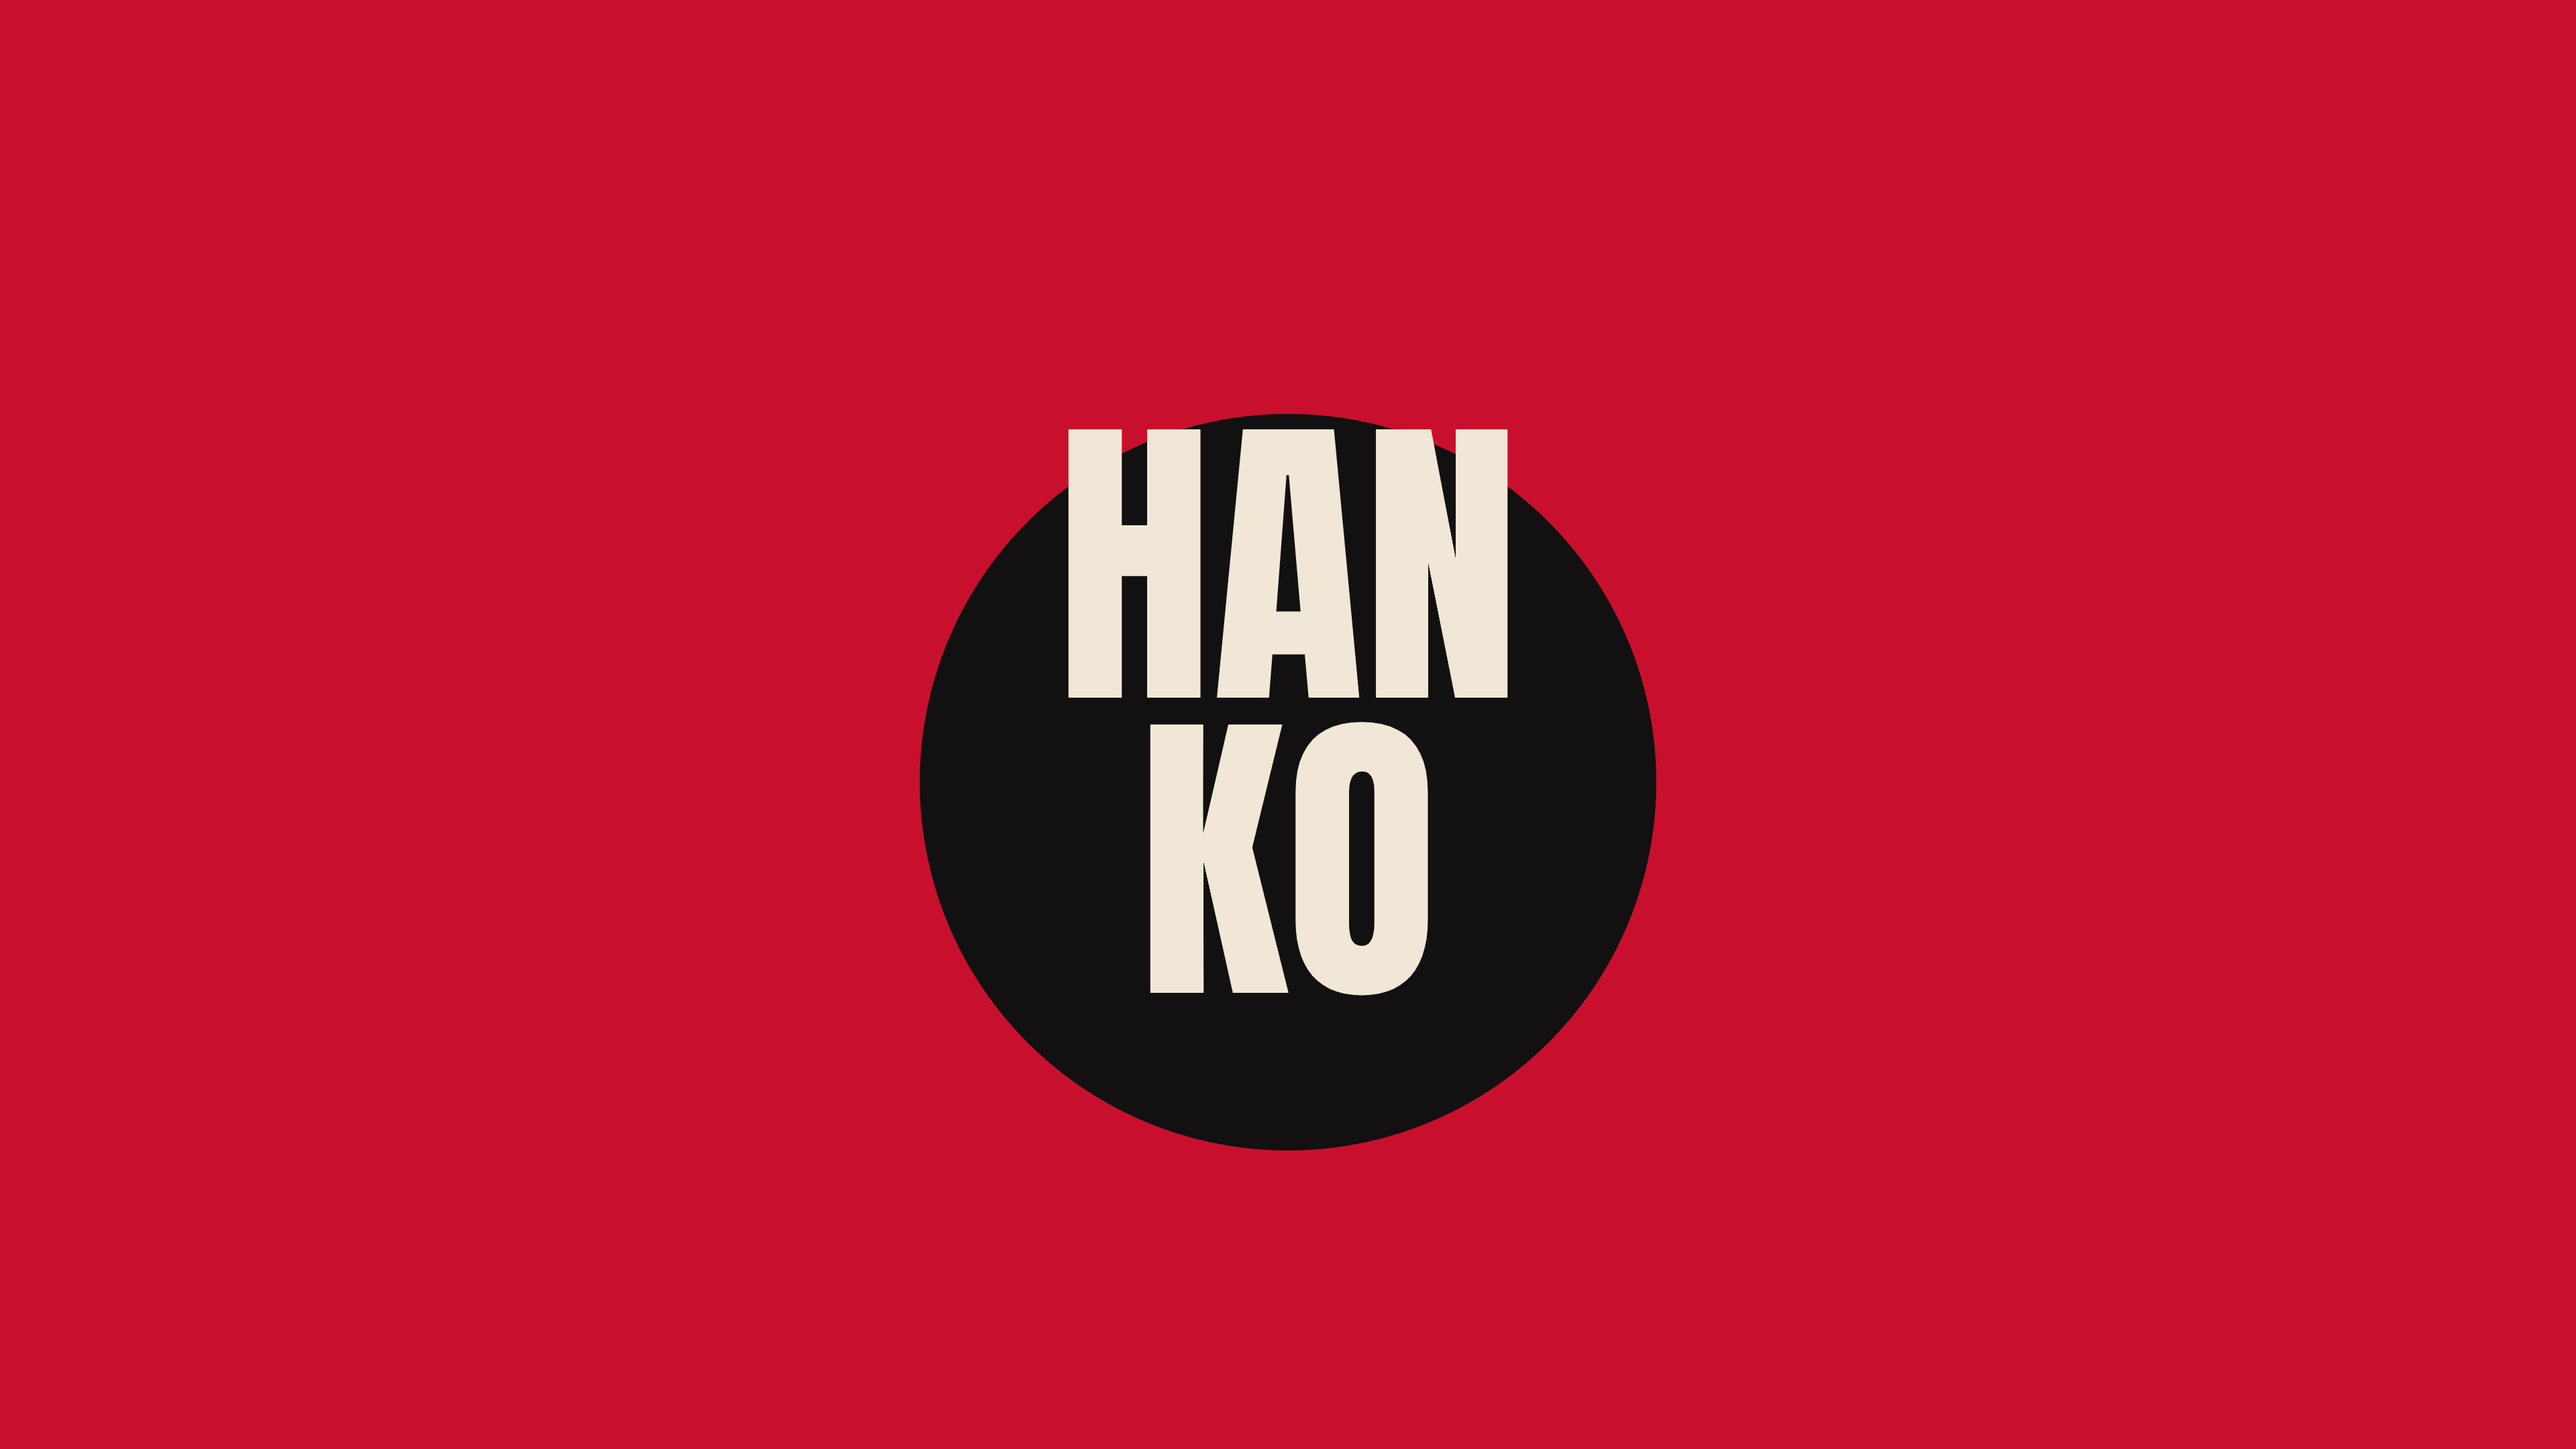
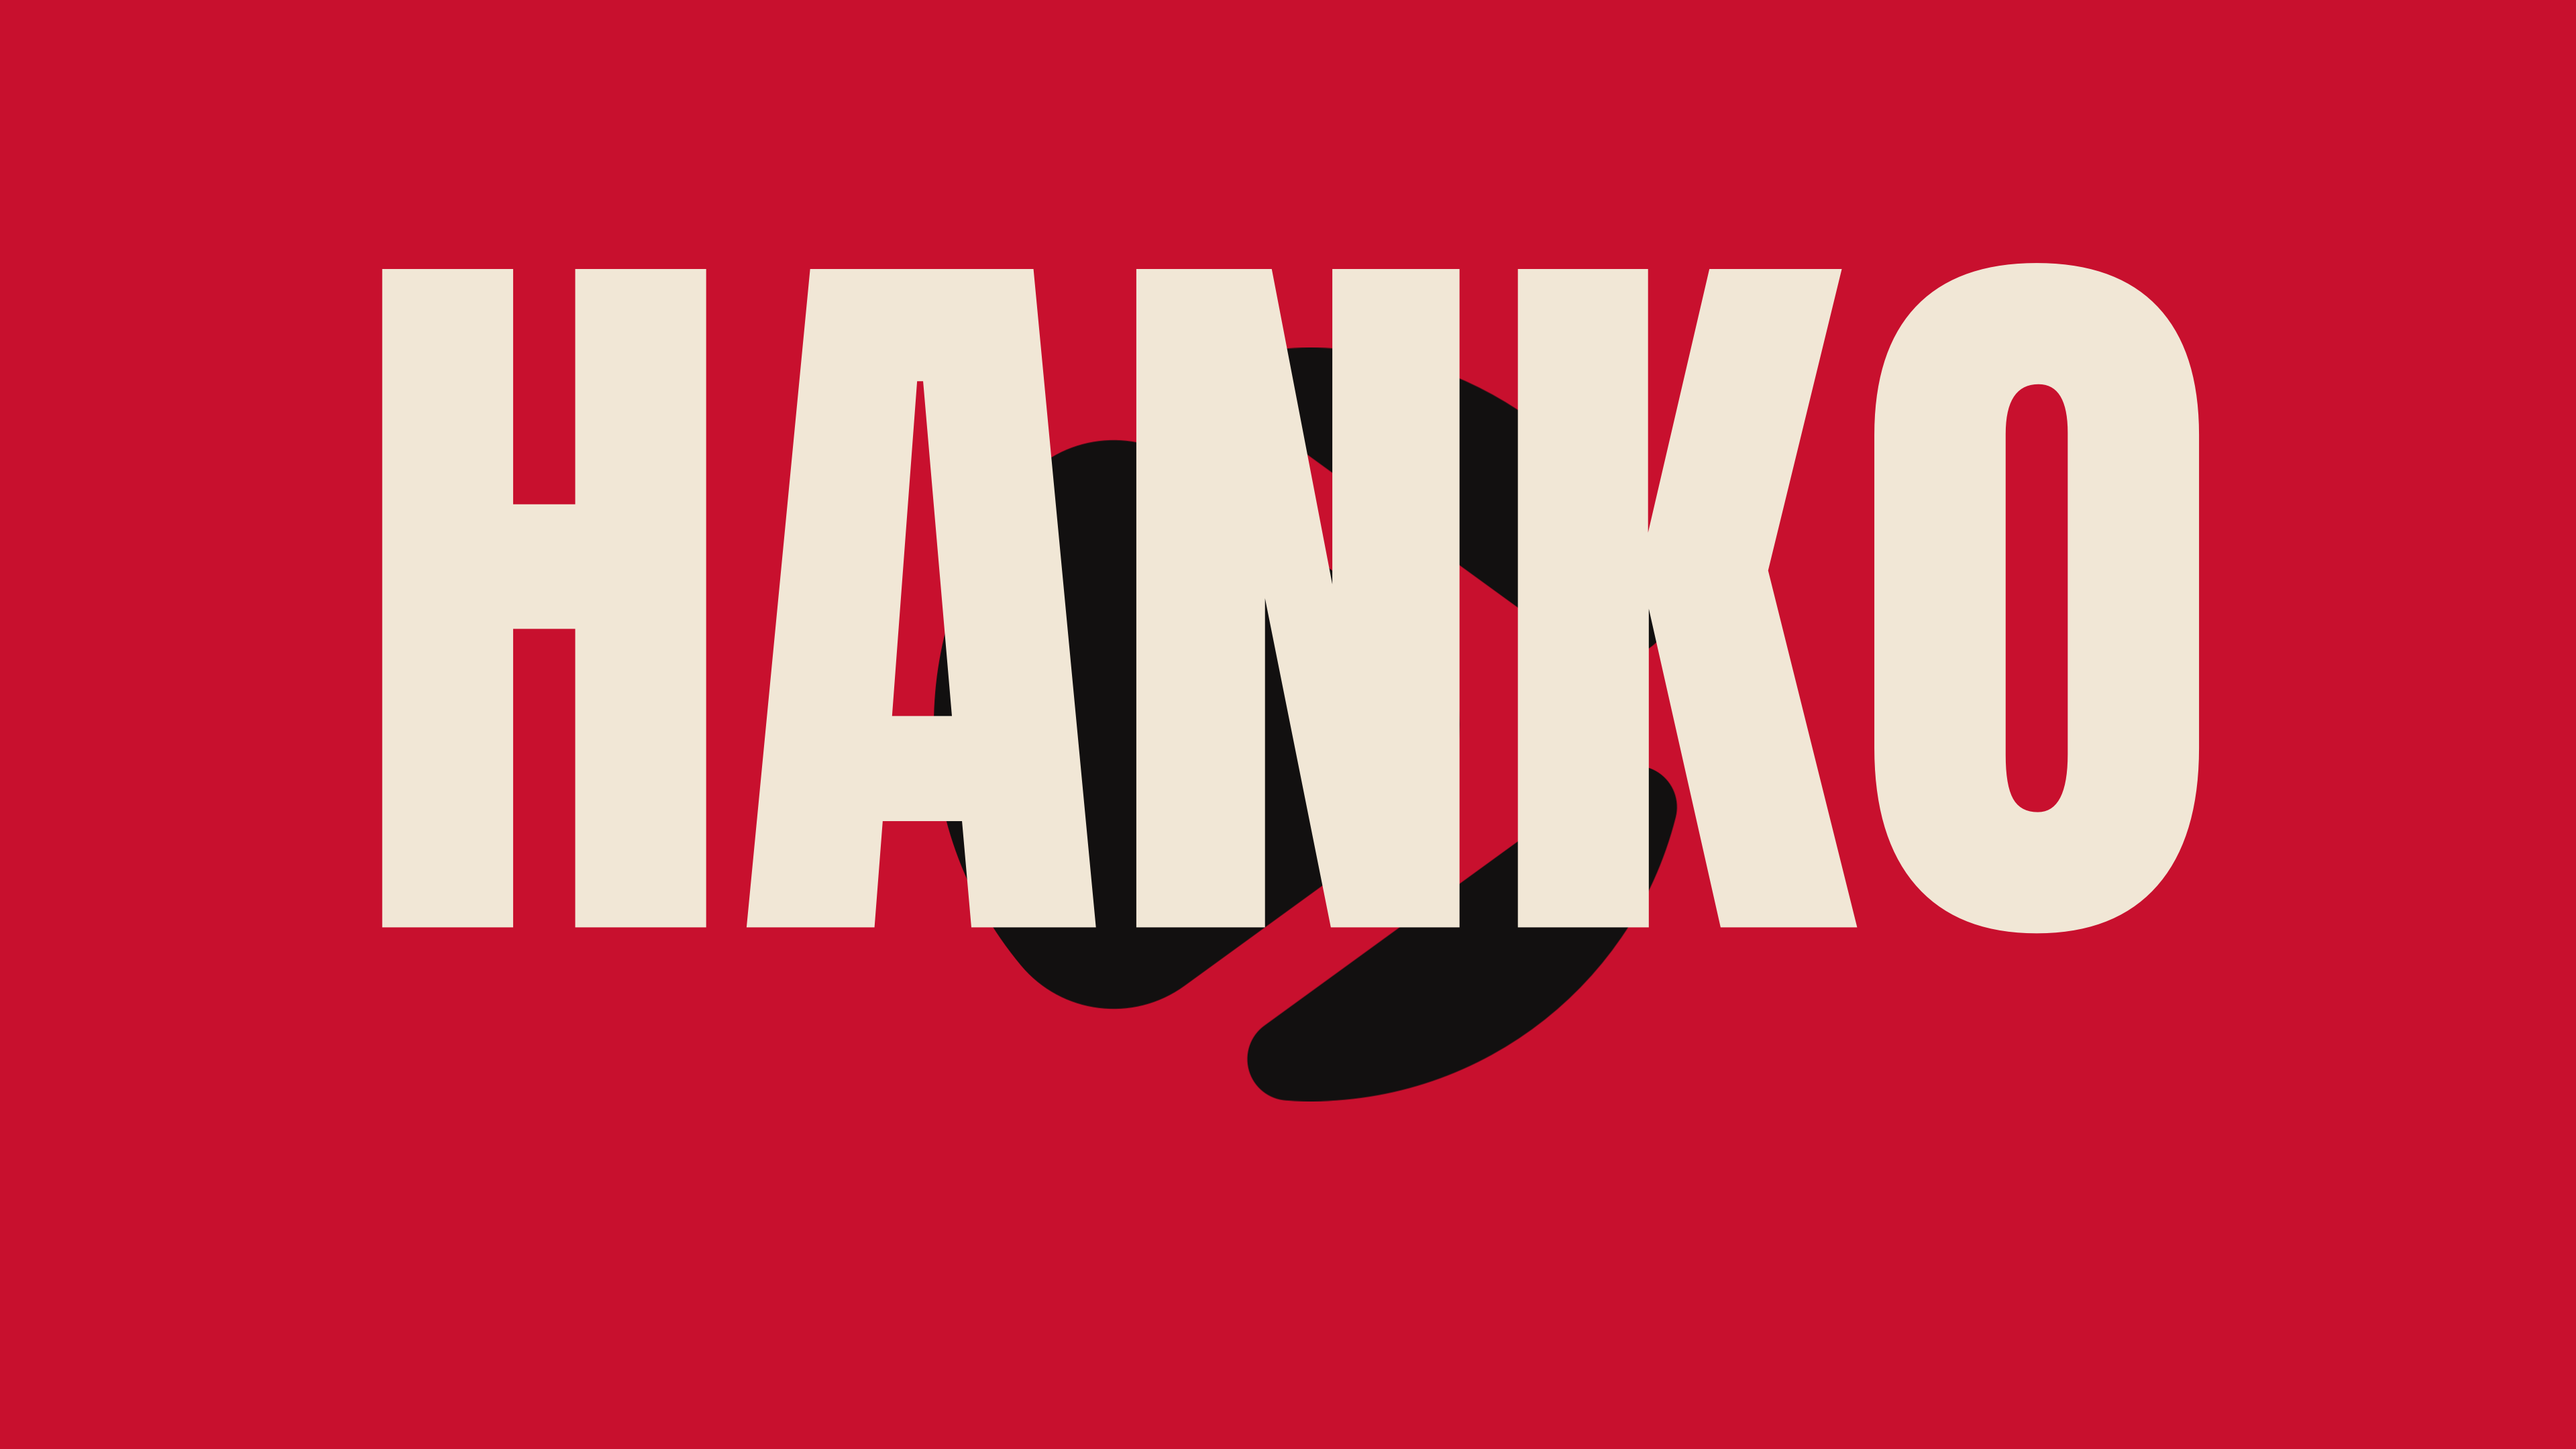
Wallpaper 01 redrawn from the live HANKO wallpaper; drop 02
01-hanko is now the live wallpaper's look (title on one line, black Moozy
logo behind, HAN / KO on the vertical version), rendered at 4K from the
same QML geometry. The old 01 and the 02-hanko-plein variant are removed.

Changed region(s): [[0.125, 0.1551, 0.875, 0.8065]]

diff --git a/CHANGELOG.md b/CHANGELOG.md
@@ -1,5 +1,9 @@
 # Changelog
 
+## 1.0.2 — 2026-11-08
+- Barre : `shell.bar.toml` (32 px, noir à 92 %, texte crème).
+- Fond `01-hanko` refait d'après le fond animé : HANKO en grand sur une ligne, logo Moozy noir derrière (HAN / KO en vertical). L'ancienne version et `02-hanko-plein` sont retirées.
+
 ## 1.0.1 — 2026-11-07
 - Fonds verticaux rangés dans `backgrounds/vertical/` : Omarchy prenait `01-hanko-vertical.png` comme fond par défaut sur un écran horizontal.
 
